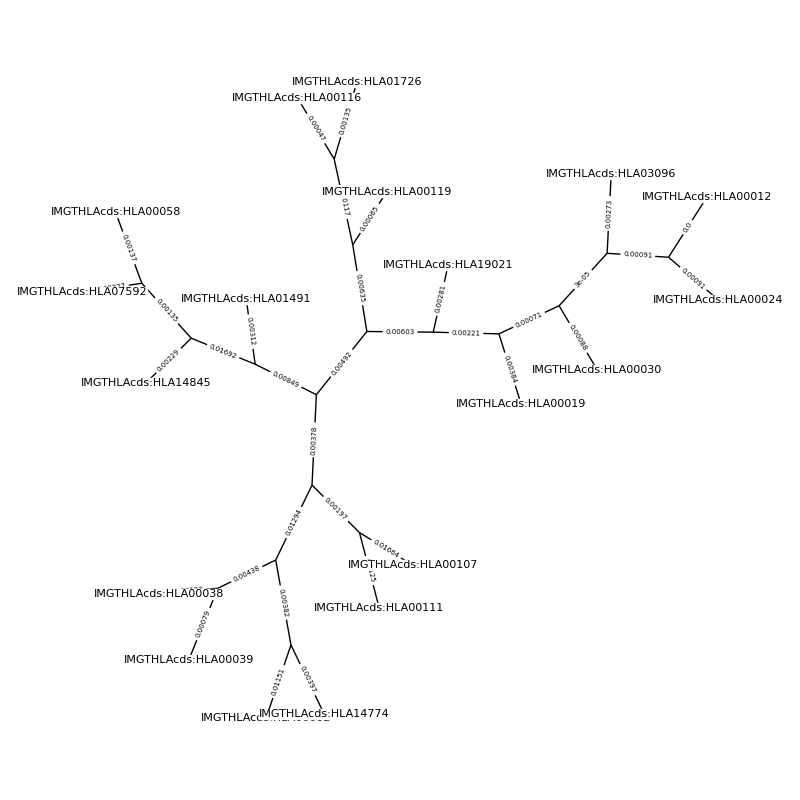
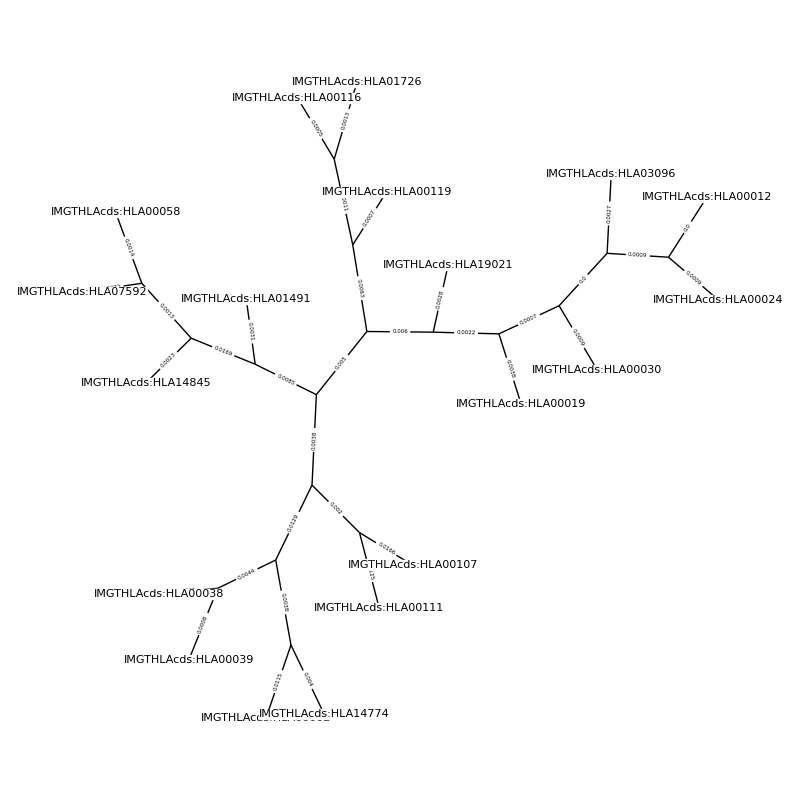
round upgma

diff --git a/UPGMA.py b/UPGMA.py
@@ -2,7 +2,7 @@ import matplotlib
 from Bio import Phylo
 
 
-def UPGMA(matrix, names1):
+def UPGMA(matrix, names1, place_to_round):
 
     orig = names1.copy()
 
@@ -19,13 +19,13 @@ def UPGMA(matrix, names1):
 
         newick = None
         if ' ' in names[minimum[0]] and ' ' in names[minimum[1]]:
-            newick = "(" + nodesStr[names[minimum[0]]][0] + ":" + str(m[minimum[0]][minimum[1]] / 2.0 - nodesStr[names[minimum[0]]][1]) + "," + nodesStr[names[minimum[1]]][0] + ":" + str(m[minimum[0]][minimum[1]] / 2.0 - nodesStr[names[minimum[1]]][1]) + ")"
+            newick = "(" + nodesStr[names[minimum[0]]][0] + ":" + str(round(m[minimum[0]][minimum[1]] / 2.0 - nodesStr[names[minimum[0]]][1], place_to_round)) + "," + nodesStr[names[minimum[1]]][0] + ":" + str(round(m[minimum[0]][minimum[1]] / 2.0 - nodesStr[names[minimum[1]]][1], place_to_round)) + ")"
         elif ' ' in names[minimum[1]]:
-            newick = "(" + orig[int(names[minimum[0]])] + ":" + str(m[minimum[0]][minimum[1]] / 2.0) + "," + nodesStr[names[minimum[1]]][0] + ":" + str(m[minimum[0]][minimum[1]] / 2.0 - nodesStr[names[minimum[1]]][1]) + ")"
+            newick = "(" + orig[int(names[minimum[0]])] + ":" + str(round(m[minimum[0]][minimum[1]] / 2.0)) + "," + nodesStr[names[minimum[1]]][0] + ":" + str(round(m[minimum[0]][minimum[1]] / 2.0 - nodesStr[names[minimum[1]]][1], place_to_round)) + ")"
         elif ' ' in names[minimum[0]]:
-            newick = "(" + nodesStr[names[minimum[0]]] + ":" + str(m[minimum[0]][minimum[1]] / 2.0 - nodesStr[names[minimum[0]]][1]) + "," + orig[int(names[minimum[1]])] + ":" + str(m[minimum[0]][minimum[1]] / 2.0) + ")"
+            newick = "(" + nodesStr[names[minimum[0]]] + ":" + str(round(m[minimum[0]][minimum[1]] / 2.0 - nodesStr[names[minimum[0]]][1]), place_to_round) + "," + orig[int(names[minimum[1]])] + ":" + str(round(m[minimum[0]][minimum[1]] / 2.0,place_to_round)) + ")"
         else:
-            newick = "(" + orig[int(names[minimum[0]])] + ":" + str(m[minimum[0]][minimum[1]] / 2.0) + "," + orig[int(names[minimum[1]])] + ":" + str(m[minimum[0]][minimum[1]] / 2.0) + ")"
+            newick = "(" + orig[int(names[minimum[0]])] + ":" + str(round(m[minimum[0]][minimum[1]] / 2.0, place_to_round)) + "," + orig[int(names[minimum[1]])] + ":" + str(round(m[minimum[0]][minimum[1]] / 2.0,place_to_round)) + ")"
 
         nodesStr[names[minimum[0]] + " " + names[minimum[1]]] = (newick, m[minimum[0]][minimum[1]] / 2.0)
 
@@ -88,12 +88,12 @@ def reduceMatrix(matrix, i, j, names):
 
 
 # #testing
-# n = ["A", "B", "C", "D", "E", "F"]
-# m = [[0,6,8,1,2,6], [6,0,8,6,6,4], [8,8,0,8,8,8], [1,6,8,0,2,6], [1,6,8,2,0,6], [6,4,8,6,6,0]]
+# n = ["A", "B", "C", "D", "E"]
+# m = [[0,6,1,2,6], [6,0,6,6,4], [1,6,0,2,6], [1,6,2,0,6], [6,4,6,6,0]]
 # print(m)
 # string = UPGMA(m, n)
 
-# #%matplotlib inline
-# parser = Phylo.NewickIO.Parser.from_string(string)
-# tree = parser.parse()
-# Phylo.draw(list(tree)[0], branch_labels=lambda c: c.branch_length)
+#%matplotlib inline
+#parser = Phylo.NewickIO.Parser.from_string(string)
+#tree = parser.parse()
+#Phylo.draw(list(tree)[0], branch_labels=lambda c: c.branch_length)

diff --git a/NeighborJoiningV2.py b/NeighborJoiningV2.py
@@ -65,7 +65,7 @@ def NeighborJoining2(matrix,digitsToRound):
 
 
     for i in range(len(matrix)):
-        G.add_edge(i, sys.maxsize, lengthx = 1)
+        G.add_edge(i, sys.maxsize, minlen = 1)
 
     #for xx in range(3):
     while n > 2:
@@ -77,8 +77,8 @@ def NeighborJoining2(matrix,digitsToRound):
         print(div_matrix)
 
         #S(AU) =d(AB) / 2 + [r(A) - r(B)] / 2(N-2) = 1
-        weight1 = round((matrix[i][j])/2.0 + (r[i] - r[j])/(2.0*(n-2)),digitsToRound)
-        weight2 = round((matrix[i][j]) - weight1,digitsToRound)
+        minlen1 = round((matrix[i][j])/2.0 + (r[i] - r[j])/(2.0*(n-2)),digitsToRound)
+        minlen2 = round((matrix[i][j]) - minlen1,digitsToRound)
 
         counter+=1
         print("combine " + str(i) + " and " + str(j) + " to " + str(counter))
@@ -90,9 +90,9 @@ def NeighborJoining2(matrix,digitsToRound):
         G.remove_edge(nodes[j], max_index_neighbor(G, nodes[j]))
 
         #G.add_node(counter)
-        G.add_edge(nodes[i], counter, lengthx = weight1)
-        G.add_edge(nodes[j], counter, lengthx= weight2)
-        G.add_edge(counter, x, lengthx=1)
+        G.add_edge(nodes[i], counter, minlen = minlen1)
+        G.add_edge(nodes[j], counter, minlen= minlen2)
+        G.add_edge(counter, x, minlen=1)
 
         nodes = np.delete(nodes,[i,j])
         nodes = np.append(nodes, counter)
@@ -112,7 +112,7 @@ def NeighborJoining2(matrix,digitsToRound):
         G.remove_edge(nodes[0], x)
         G.remove_edge(nodes[1], max_index_neighbor(G, nodes[1]))
 
-        G.add_edge(nodes[0], nodes[1], lengthx= round(matrix[0,1], digitsToRound))
+        G.add_edge(nodes[0], nodes[1], minlen= round(matrix[0,1], digitsToRound))
 
     return (clusters, G)
 
@@ -131,8 +131,8 @@ def displayGraph(G, names):
     nx.draw_networkx_edges(
         G, pos, ax=ax
     )
-    weights = nx.get_edge_attributes(G, 'lengthx')
-    nx.draw_networkx_edge_labels(G, pos, edge_labels=weights)
+    minlens = nx.get_edge_attributes(G, 'minlen')
+    nx.draw_networkx_edge_labels(G, pos, edge_labels=minlens, font_size=8)
     nx.draw_networkx_labels(
         G, pos, ax=ax, labels=nameLabels, font_size=10,
         # Draw a white background behind the labeled nodes
@@ -157,8 +157,8 @@ def saveGraph(G, names):
     nx.draw_networkx_edges(
         G, pos, ax=ax
     )
-    weights = nx.get_edge_attributes(G, 'lengthx')
-    nx.draw_networkx_edge_labels(G, pos, font_size=5, edge_labels=weights)
+    minlens = nx.get_edge_attributes(G, 'minlen')
+    nx.draw_networkx_edge_labels(G, pos, font_size=4, edge_labels=minlens)
     nx.draw_networkx_labels(
         G, pos, ax=ax, labels=nameLabels, font_size=8,
         # Draw a white background behind the labeled nodes

diff --git a/compareAlgorithms.py b/compareAlgorithms.py
@@ -16,8 +16,8 @@ for record in alignment:
 
 distance_matrix = calculate_distance_matrix(alignment)
 
-upgma_result = UPGMA.UPGMA(distance_matrix,names)
-nj_result = NeighborJoiningV2.NeighborJoining2(distance_matrix,5)
+upgma_result = UPGMA.UPGMA(distance_matrix,names, 4)
+nj_result = NeighborJoiningV2.NeighborJoining2(distance_matrix,4)
 
 parser = Phylo.NewickIO.Parser.from_string(upgma_result)
 tree = parser.parse()
